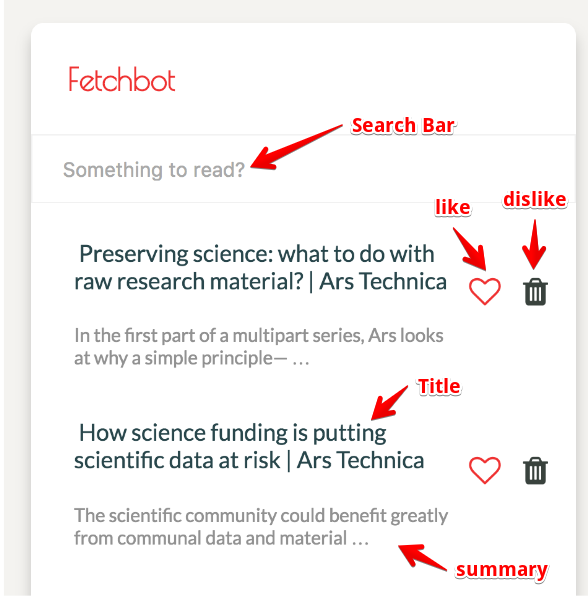
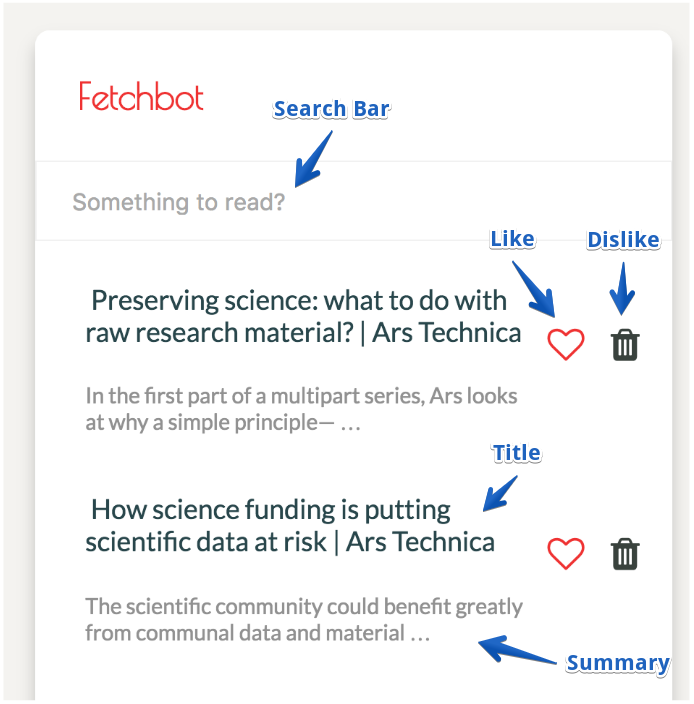
improved WebUI diagram and minor changes in design doc

diff --git a/README.md b/README.md
@@ -4,7 +4,7 @@ Fetchbot is a personalized content stream that fetches articles you’ll love on
 You can train your Fetchbot by marking the article as “like” or “dislike”. The more feedback a user feeds to Fetchbot, the better results Fetchbot can gives back.
 
 - Check out [Demo Video](https://youtu.be/cxbzO0MGIZM)
-  - user ID input bar on top is a temporary work around to simulate experience for different users
+  - User ID input bar on top is a temporary work around to simulate experience for different users
   - The user ID are from demo dataset
   - This could be replaced by proper authentication
 
@@ -118,7 +118,7 @@ Once an article is disliked, it will never appear in the recommendation again
   - For each user, record user’s set of liked articles and disliked articles
   - When a user dislike an article, we also hide this article from this user so that it never appears in recommendation for this user.
   - When generating recommendation for a user, use Jaccardian similarity for find users with similar tastes and return these users’ liked articles.
-  - Recommendable uses Redis to store users’ liked and disliked articles. It also uses Redis’ set operation to perform Jaccardian similarity operation efficiently
+  - Recommendable uses Redis to store users’ liked and disliked articles. It also uses Redis’ set operation to perform Jaccardian similarity operation efficiently.
 
 #### Crawler [Python Scrapy](https://scrapy.org/)
 - We only have URLs from the deli.ci.ous data set, therefore we need to crawl the actual content from Internet using a crawler
@@ -171,7 +171,7 @@ Once an article is disliked, it will never appear in the recommendation again
 - [Deli.ci.ous bookmarks dataset](https://grouplens.org/datasets/hetrec-2011/)(2011)
 - 1800+ users
 - 69,000+ articles (URLs)
-- Initially, I built a crawler to scrape new contents to my recommender system. However, collaborative filtering requires a large user preference dataset to has its best effect. Because I don’t have any user to start with. I need to find a dataset to test run my algorithm. It is hard to find a real dataset that represents user’s reading habits. Fortunately, I found Deli.ci.ous bookmarks dataset (2011) with more than eighteen hundred users (1800+) bookmarking more than sixty-nine thousand (69,000) articles. I considered user’s bookmark as indication that user likes this article. After I imported the dataset into my system, I can see collaborative filtering algorithm start working.
+- Initially, I built a crawler to scrape new contents to my recommender system. However, collaborative filtering requires a large user preference dataset to has its best effect. Because I don’t have any user to start with. I need to find a dataset to test run my algorithm. It is hard to find a real dataset that represents user’s reading habits. Fortunately, I found Deli.ci.ous bookmarks dataset (2011) with more than eighteen hundred users (1800+) bookmarking more than sixty-nine thousand (69,000) articles. I considered user’s bookmark as indication that user likes this article. After I imported the dataset into my system, I can see collaborative filtering algorithm [start working]([Demo Video](https://youtu.be/cxbzO0MGIZM).
 
 ## Future Improvements:
 - Better Content-based recommendation

diff --git a/docs/Design_doc.md b/docs/Design_doc.md
@@ -4,7 +4,7 @@ Fetchbot is a personalized content stream that fetches articles you’ll love on
 You can train your Fetchbot by marking the article as “like” or “dislike”. The more feedback a user feeds to Fetchbot, the better results Fetchbot can gives back.
 
 - Check out [Demo Video](https://youtu.be/cxbzO0MGIZM)
-  - user ID input bar on top is a temporary work around to simulate experience for different users
+  - User ID input bar on top is a temporary work around to simulate experience for different users
   - The user ID are from demo dataset
   - This could be replaced by proper authentication
 
@@ -118,7 +118,7 @@ Once an article is disliked, it will never appear in the recommendation again
   - For each user, record user’s set of liked articles and disliked articles
   - When a user dislike an article, we also hide this article from this user so that it never appears in recommendation for this user.
   - When generating recommendation for a user, use Jaccardian similarity for find users with similar tastes and return these users’ liked articles.
-  - Recommendable uses Redis to store users’ liked and disliked articles. It also uses Redis’ set operation to perform Jaccardian similarity operation efficiently
+  - Recommendable uses Redis to store users’ liked and disliked articles. It also uses Redis’ set operation to perform Jaccardian similarity operation efficiently.
 
 #### Crawler [Python Scrapy](https://scrapy.org/)
 - We only have URLs from the deli.ci.ous data set, therefore we need to crawl the actual content from Internet using a crawler
@@ -171,7 +171,7 @@ Once an article is disliked, it will never appear in the recommendation again
 - [Deli.ci.ous bookmarks dataset](https://grouplens.org/datasets/hetrec-2011/)(2011)
 - 1800+ users
 - 69,000+ articles (URLs)
-- Initially, I built a crawler to scrape new contents to my recommender system. However, collaborative filtering requires a large user preference dataset to has its best effect. Because I don’t have any user to start with. I need to find a dataset to test run my algorithm. It is hard to find a real dataset that represents user’s reading habits. Fortunately, I found Deli.ci.ous bookmarks dataset (2011) with more than eighteen hundred users (1800+) bookmarking more than sixty-nine thousand (69,000) articles. I considered user’s bookmark as indication that user likes this article. After I imported the dataset into my system, I can see collaborative filtering algorithm start working.
+- Initially, I built a crawler to scrape new contents to my recommender system. However, collaborative filtering requires a large user preference dataset to has its best effect. Because I don’t have any user to start with. I need to find a dataset to test run my algorithm. It is hard to find a real dataset that represents user’s reading habits. Fortunately, I found Deli.ci.ous bookmarks dataset (2011) with more than eighteen hundred users (1800+) bookmarking more than sixty-nine thousand (69,000) articles. I considered user’s bookmark as indication that user likes this article. After I imported the dataset into my system, I can see collaborative filtering algorithm [start working]([Demo Video](https://youtu.be/cxbzO0MGIZM).
 
 ## Future Improvements:
 - Better Content-based recommendation
